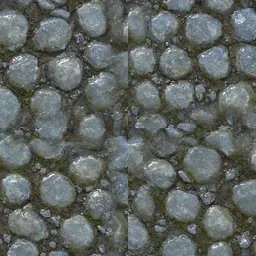
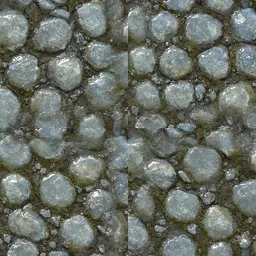
fix(vs): clip G3 overlays; mud yard not stone maze
Hard-clip map drawing via SubViewport so weapon sectors cannot
paint over the HUD. Render walls as narrow stone strips (or dark
masses), open ground as mud/grass with cobble roads, clearer roof
footprints, and merged full-cell sandbag runs on cover cells.

diff --git a/ambush_vs/scripts/build_g3_assets.py b/ambush_vs/scripts/build_g3_assets.py
@@ -263,11 +263,11 @@ def build_tiles() -> dict:
 	meta = {}
 	# Per-material lift so mud/grass/cobble stay distinguishable under moonlight.
 	boosts = {
-		"mud": (1.22, 8.0, (1.12, 0.98, 0.88)),  # warmer brown
-		"grass": (1.18, 6.0, (0.90, 1.18, 0.92)),  # greener
-		"cobble": (1.20, 10.0, (1.05, 1.02, 0.92)),  # less blue-grey
-		"planks": (1.16, 8.0, (1.10, 1.00, 0.90)),
-		"stonewall": (1.14, 8.0, (1.02, 1.00, 0.96)),
+		"mud": (1.28, 10.0, (1.18, 0.96, 0.82)),  # warmer brown
+		"grass": (1.24, 8.0, (0.85, 1.28, 0.88)),  # greener
+		"cobble": (1.26, 12.0, (1.08, 1.04, 0.90)),  # cooler grey, not blue wash
+		"planks": (1.20, 10.0, (1.14, 1.00, 0.86)),
+		"stonewall": (1.16, 8.0, (1.04, 1.00, 0.94)),
 	}
 	for name, src_name in mapping.items():
 		im = Image.open(SRC / src_name)
@@ -276,9 +276,9 @@ def build_tiles() -> dict:
 		arr = np.asarray(tile).astype(np.float32)
 		rgb = arr[..., :3] * mul + add
 		rgb *= np.array(tint, dtype=np.float32)
-		# Mild local contrast so world-UV detail reads at map scale.
+		# Stronger local contrast so mud/grass/cobble separate under moonlight.
 		mean = rgb.mean(axis=(0, 1), keepdims=True)
-		rgb = mean + (rgb - mean) * 1.15
+		rgb = mean + (rgb - mean) * 1.28
 		arr[..., :3] = np.clip(rgb, 0, 255)
 		tile = Image.fromarray(arr.astype(np.uint8), "RGBA")
 		save_webp(tile, f"tiles/{name}.webp")

diff --git a/.cursor/docs/VS_G3_ART_20261017.md b/.cursor/docs/VS_G3_ART_20261017.md
@@ -39,6 +39,13 @@ chatgpt:unavailable（Cloud Agent；无网页 ChatGPT 桥）
 4. **单位** ≈1.6× + 软落影 + 全队黄环
 5. **灯笼**更小、更暖、仅 3 处
 
+### 续修（clip + 地面映射）
+
+1. **扇区裁剪**：`MapHost` → `SubViewportContainer`/`SubViewport` 硬裁切；楔形点钳制到地图矩形（不再盖住右侧 UI）
+2. **石墙不再铺满地面**：`stonewall` 仅墙格窄条+投影；厚墙体用暗色体块；开阔地以泥+草为主，鹅卵石留给道路/`=`
+3. **高地 footprint**：`high_slots` 脊线+地面檐影
+4. **沙袋**：仅 `low_cover` 格，邻接合并为连续带并填满格高
+
 ## 验证记录
 
 | 项 | 结果 |
